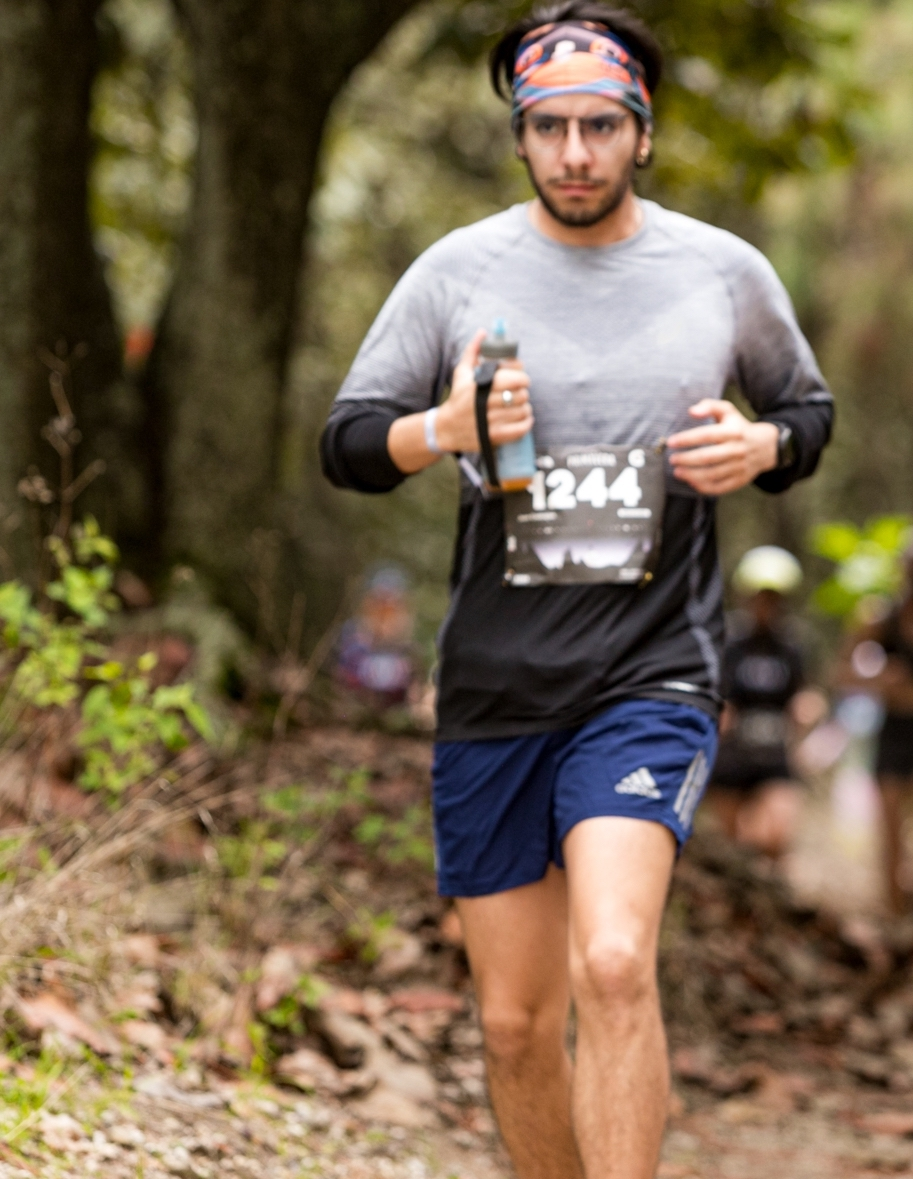
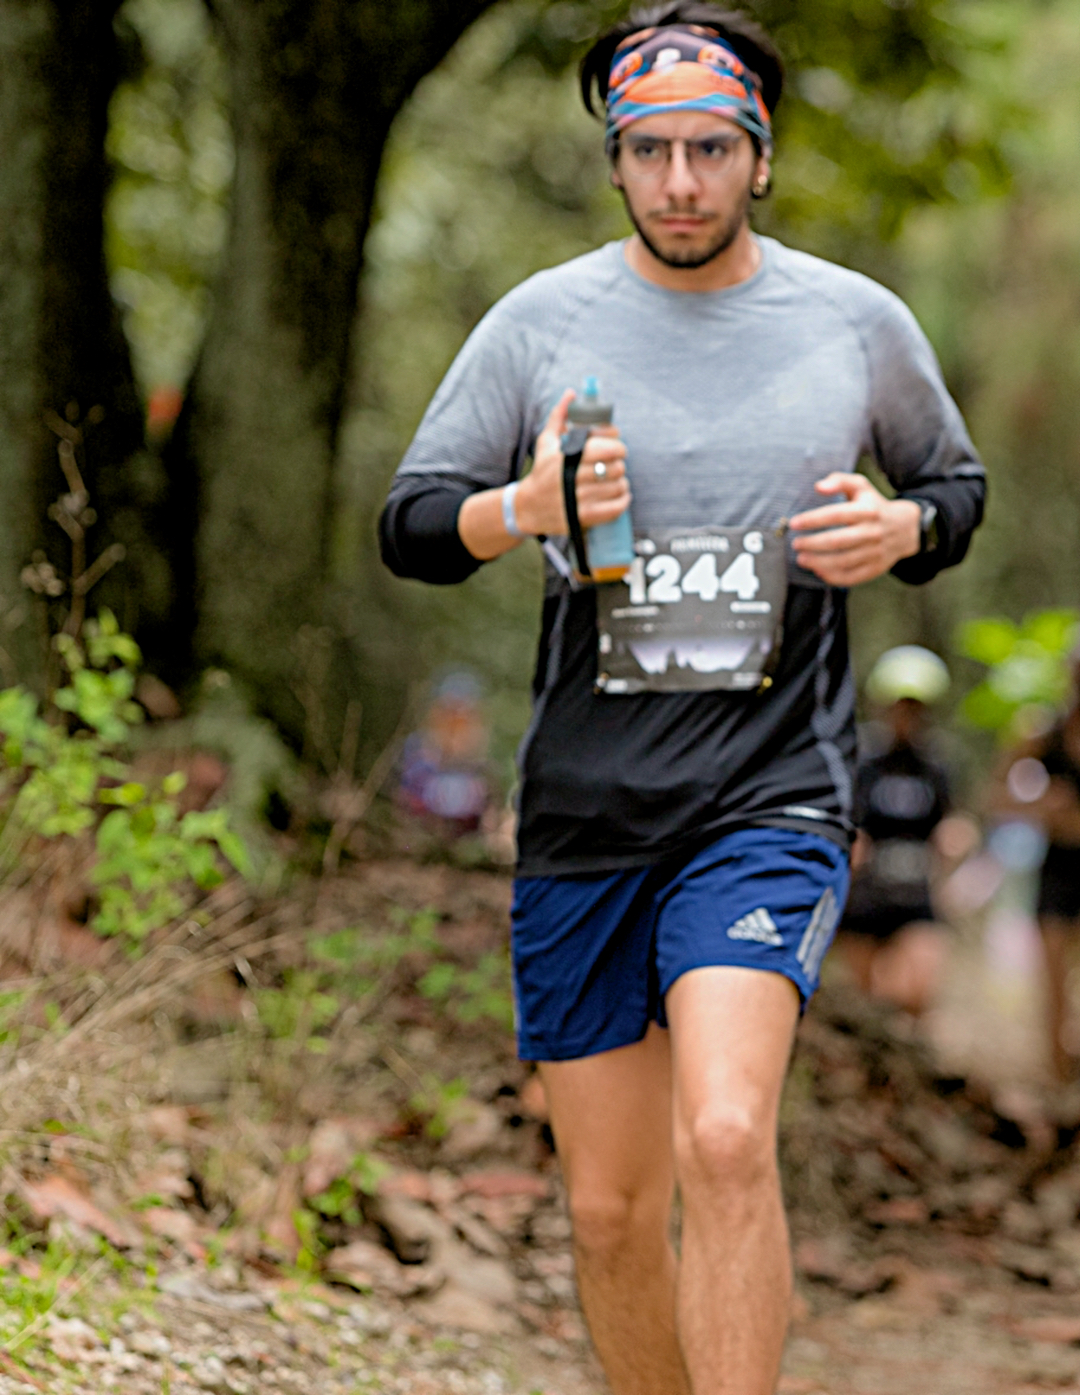
UPD about me

diff --git a/src/app/about/page.tsx b/src/app/about/page.tsx
@@ -10,7 +10,7 @@ import {
   LinkedInIcon,
   XIcon,
 } from '@/components/SocialIcons'
-import portraitImage from '@/images/portrait.jpeg'
+import portraitImage from '@/images/portrait_running.jpg'
 
 function SocialLink({
   className,
@@ -74,7 +74,20 @@ export default function About() {
           </h1>
           <div className="mt-6 space-y-7 text-base text-zinc-600 dark:text-zinc-400">
             <p>
-              Cool guy, I like to code and stuff. I'm a software engineer, I like to build things and solve problems. I'm a big fan of the web and the open source community.
+              I'm a proud graduate from National Autonomous University of Mexico (UNAM), where I acquired my skills as a computer scientist.
+              Creating technology that resonates with the community and makes a difference is my passion.
+              I'm a never-ending learner, always looking for new knowledge and inspiration from the world around me.
+            </p>
+            <p>
+              When I'm not immersed in coding or tech projects, I tend to practice my DJ skills since I love music in general.
+              I'm also a TV series enthusiast and enjoy the thrill of a good video game to unwind.
+              Board games are another passion of mine; I love the strategic challenge and admit I get a little competitive.
+              My life is a landscape of innovative work, continuous learning, musical adventures, and playful competition.
+            </p>
+            <p>
+              Since the pandemic started, I've been working remotely on most of my projects, which launched me
+              into the digital nomad lifestyle. I've been moving around Mexico, working from different cities and
+              exploring the country and falling in love in a new way with my passions.
             </p>
           </div>
         </div>

diff --git a/src/components/Header.tsx b/src/components/Header.tsx
@@ -133,7 +133,7 @@ function MobileNavigation(
             <nav className="mt-6">
               <ul className="-my-2 divide-y divide-zinc-100 text-base text-zinc-800 dark:divide-zinc-100/5 dark:text-zinc-300">
                 <MobileNavItem href="/">Home</MobileNavItem>
-                {/* <MobileNavItem href="/about">About</MobileNavItem> */}
+                <MobileNavItem href="/about">About</MobileNavItem>
                 <MobileNavItem href="/projects">Projects</MobileNavItem>
                 <MobileNavItem href="/uses">Uses</MobileNavItem>
               </ul>
@@ -179,7 +179,7 @@ function DesktopNavigation(props: React.ComponentPropsWithoutRef<'nav'>) {
     <nav {...props}>
       <ul className="flex rounded-full bg-white/90 px-3 text-sm font-medium text-zinc-800 shadow-lg shadow-zinc-800/5 ring-1 ring-zinc-900/5 backdrop-blur dark:bg-zinc-800/90 dark:text-zinc-200 dark:ring-white/10">
         <NavItem href="/">Home</NavItem>
-        {/* <NavItem href="/about">About</NavItem> */}
+        <NavItem href="/about">About</NavItem>
         <NavItem href="/projects">Projects</NavItem>
         <NavItem href="/uses">Uses</NavItem>
       </ul>

diff --git a/src/components/Footer.tsx b/src/components/Footer.tsx
@@ -28,7 +28,7 @@ export function Footer() {
             <div className="flex flex-col items-center justify-between gap-6 sm:flex-row">
               <div className="flex flex-wrap justify-center gap-x-6 gap-y-1 text-sm font-medium text-zinc-800 dark:text-zinc-200">
                 <NavLink href="/">Home</NavLink>
-                {/* <NavLink href="/about">About</NavLink> */}
+                <NavLink href="/about">About</NavLink>
                 <NavLink href="/projects">Projects</NavLink>
                 <NavLink href="/uses">Uses</NavLink>
               </div>
